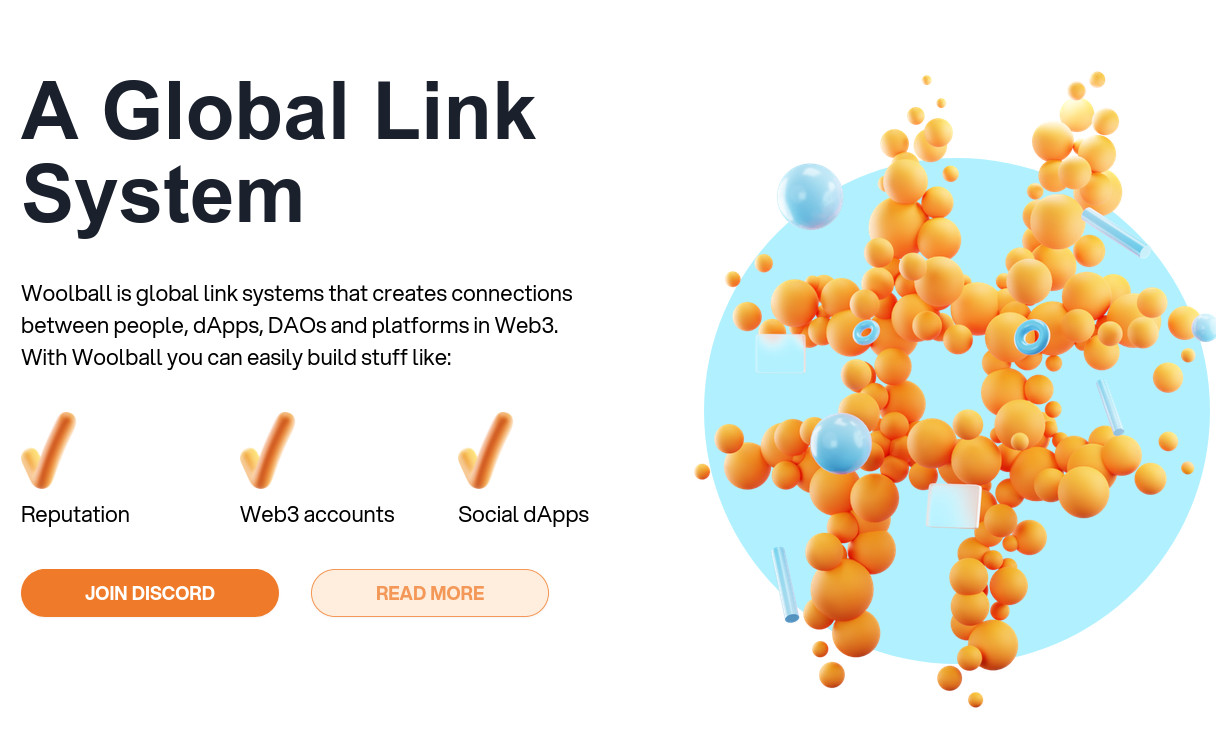
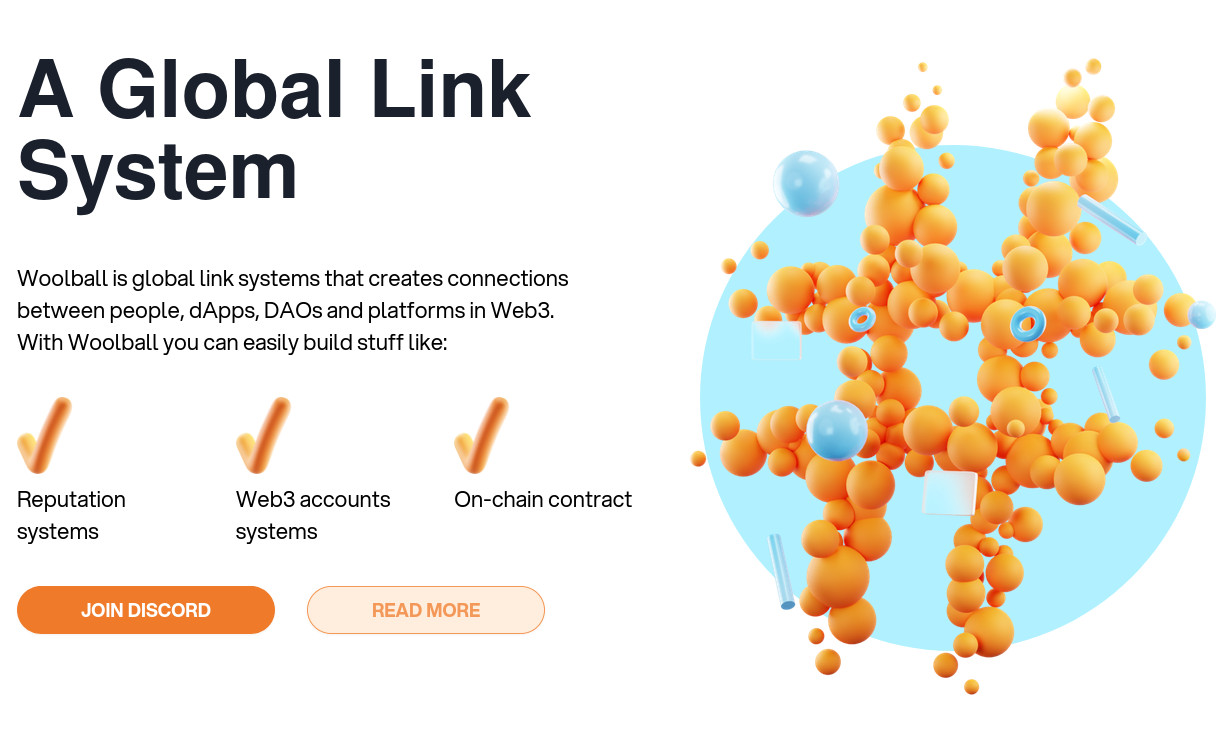
edit text

diff --git a/pages/index.tsx b/pages/index.tsx
@@ -69,9 +69,9 @@ export default function Home() {
             fontWeight={'400'}
             verticalAlign={'middle'}
           >
-            <UseCase>Reputation</UseCase>
-            <UseCase>Web3 accounts</UseCase>
-            <UseCase>Social dApps</UseCase>
+            <UseCase>Reputation systems</UseCase>
+            <UseCase>Web3 accounts systems</UseCase>
+            <UseCase>On-chain contract</UseCase>
           </SimpleGrid>
           <ActionButtons />
         </Stack>
@@ -97,7 +97,7 @@ export default function Home() {
             lineHeight={{ base: '32px', md: '40px', lg: '40px' }}
           >
             Woolball links are made between Woolball names.
-            A presale of Woolball names is coming soon to help us fund development!
+            A presale of Woolball names to fund development is coming soon.
           </Text>
         </Flex>
         <Flex w={'100%'} align={'center'} flex={1} justify={'center'}>

diff --git a/pages/what-is-woolball.tsx b/pages/what-is-woolball.tsx
@@ -140,12 +140,11 @@ const WhatIsWoolballPage: NextPage = ({}) => {
           </p>
 
           <p>
-            Another use case is the implementation of a Woolball-based chat
-            system. In this scenario, links between names would represent
-            ongoing conversations between the entities holding those names.
-            Users could initiate conversations simply by creating a link to the
-            person they want to talk to, making it easy to build chat
-            functionality without writing any smart contract code.
+            Another use case is the implementation of a Woolball-based contract
+            between DAOs or projects. In this scenario, each link represent
+            a contractual agreement between two entities, and the link properties
+            and functions specify the content of the agreement and its enforcement
+            rules.
           </p>
 
           <p>

diff --git a/components/constants/header.tsx b/components/constants/header.tsx
@@ -3,4 +3,4 @@ export const HEADER_DESCRIPTION: string =
   'Woolball is global link systems that creates connections between people, dApps, DAOs and platforms in Web3.'
 
 export const HEADER_IMAGE: string =
-  'https://woolball.xyz/images/screenshot.jpg?v=2'
+  'https://woolball.xyz/images/screenshot.jpg?v=3'
